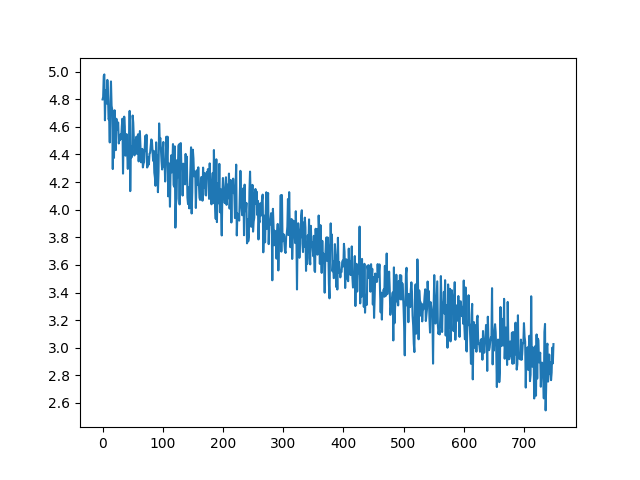
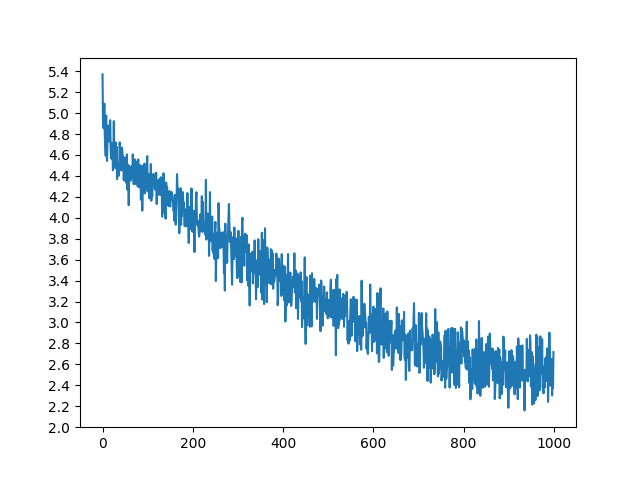
parameter adjustment

diff --git a/code.py b/code.py
@@ -197,7 +197,7 @@ def tensorsFromPair(pair):
     return (input_tensor, target_tensor)
 
 
-teacher_forcing_ratio = 0.5
+teacher_forcing_ratio = 0.6
 
 
 def train(input_tensor, target_tensor, encoder, decoder, encoder_optimizer, decoder_optimizer, criterion, max_length=MAX_LENGTH):
@@ -368,11 +368,11 @@ def evaluateRandomly(encoder, decoder, n=10):
         print('<', output_sentence)
         print('')
 
-hidden_size = 256
+hidden_size = 512
 encoder1 = EncoderRNN(input_lang.n_words, hidden_size).to(device)
-attn_decoder1 = AttnDecoderRNN(hidden_size, output_lang.n_words, dropout_p=0.1).to(device)
+attn_decoder1 = AttnDecoderRNN(hidden_size, output_lang.n_words, dropout_p=0.05).to(device)
 
-trainIters(encoder1, attn_decoder1, 75000, print_every=5000, learning_rate=0.02)
+trainIters(encoder1, attn_decoder1, 100000, print_every=5000, learning_rate=0.02)
 
 evaluateRandomly(encoder1, attn_decoder1)
 
